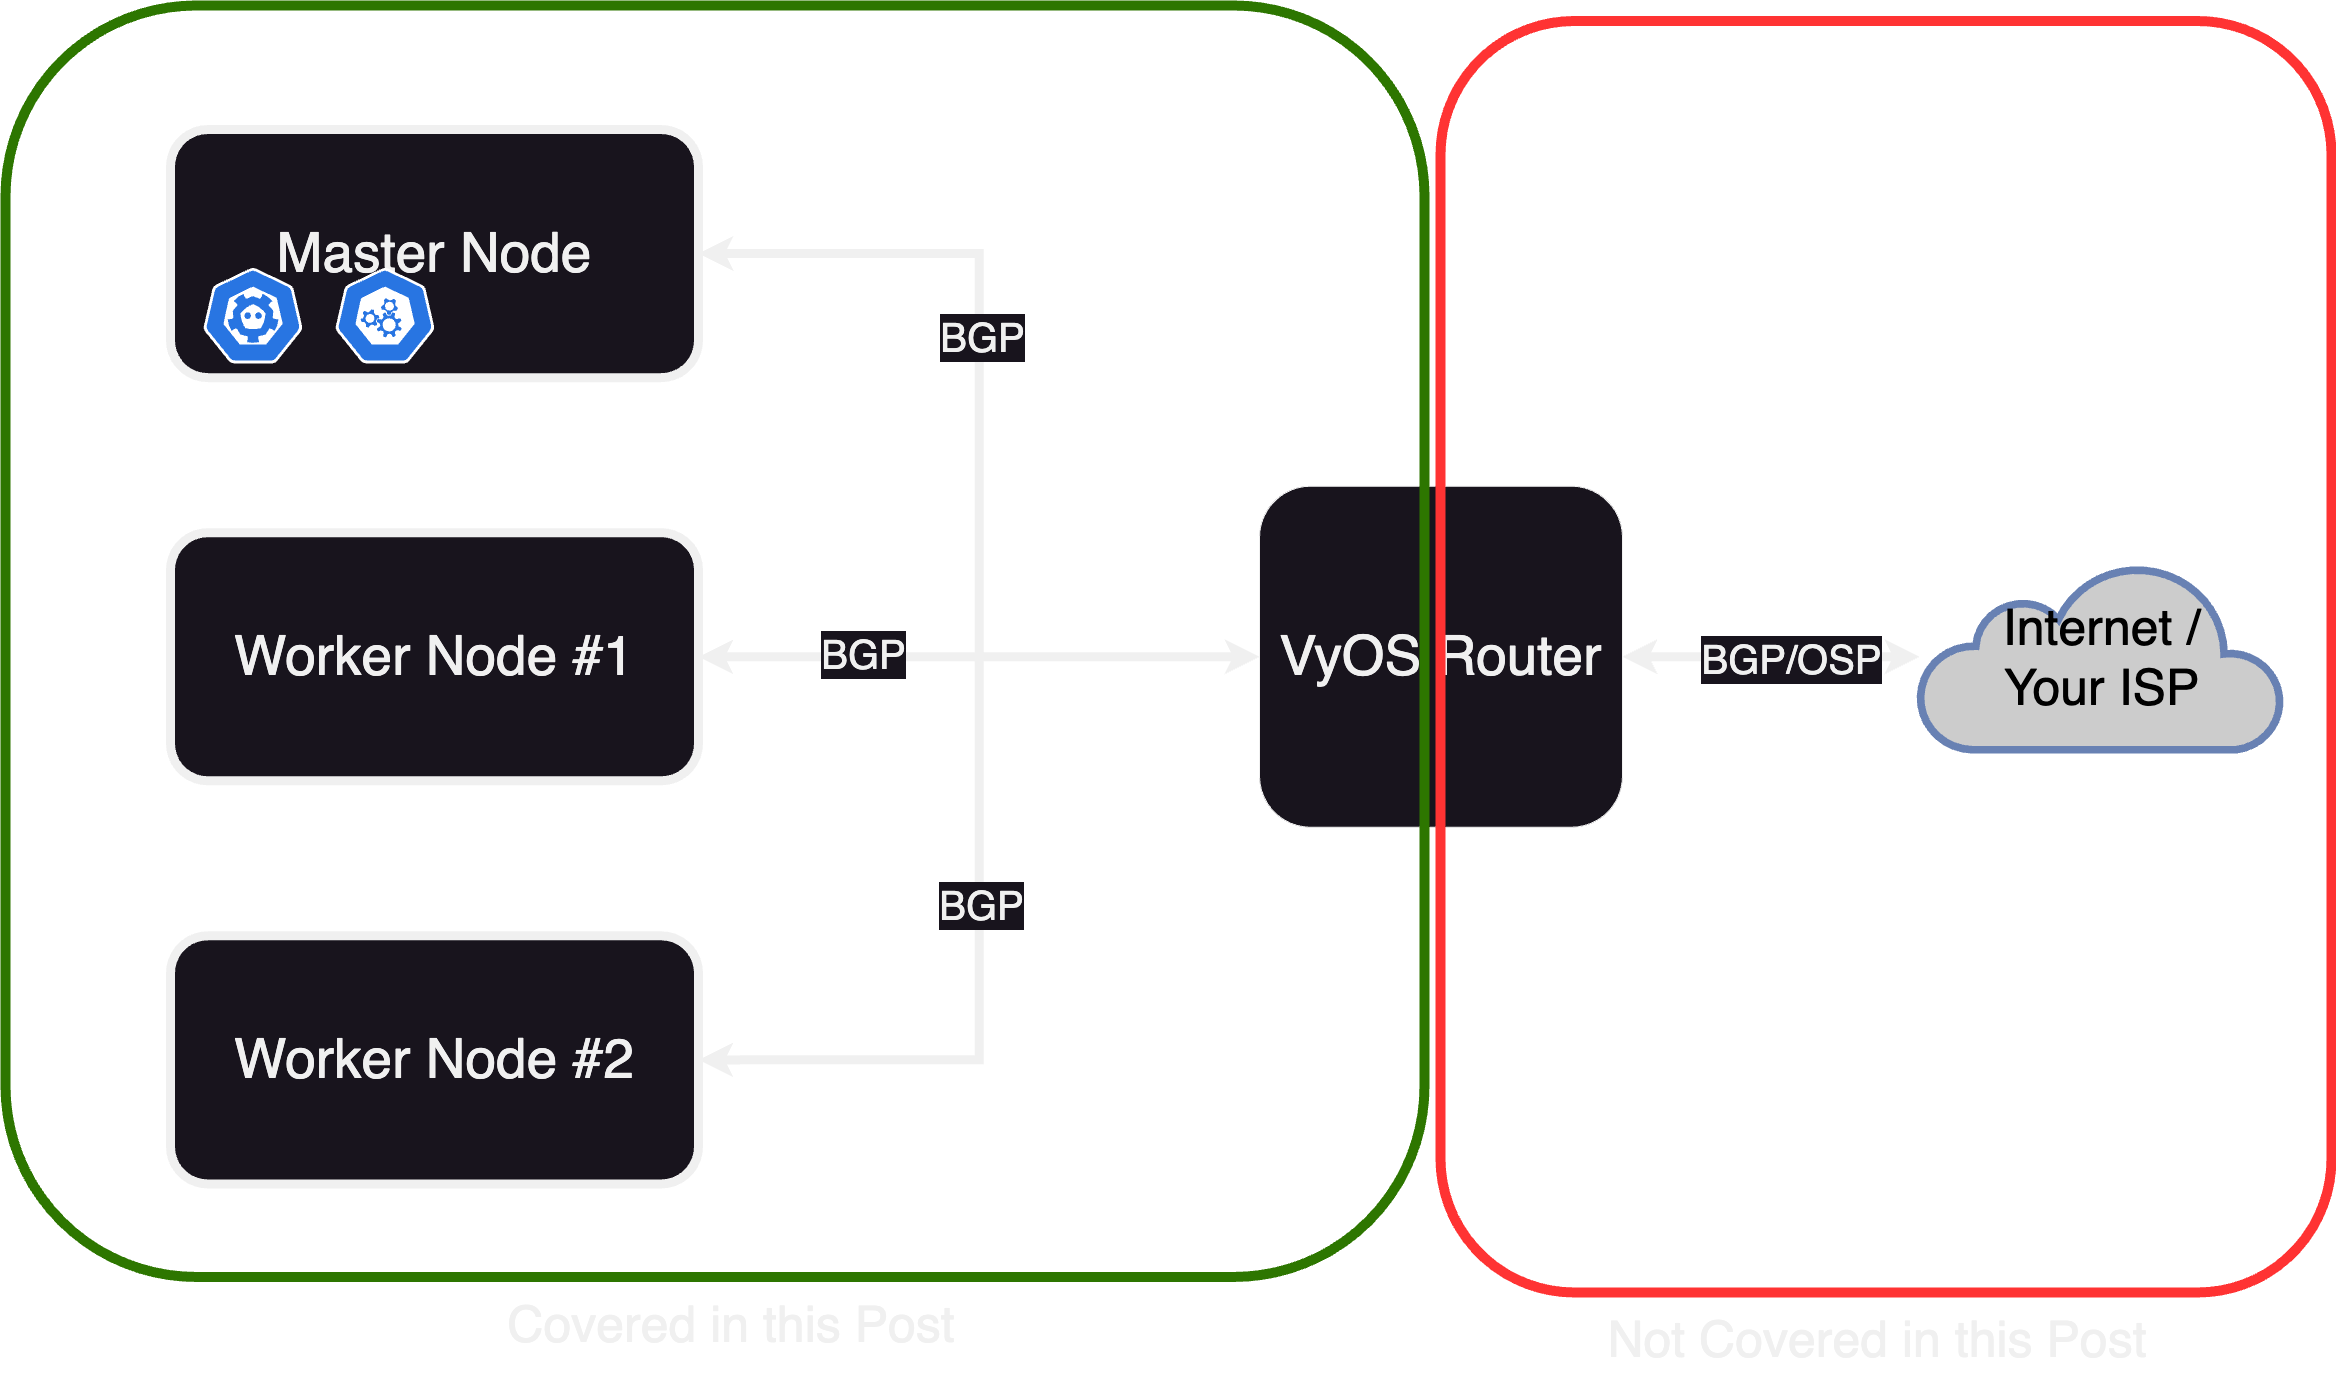
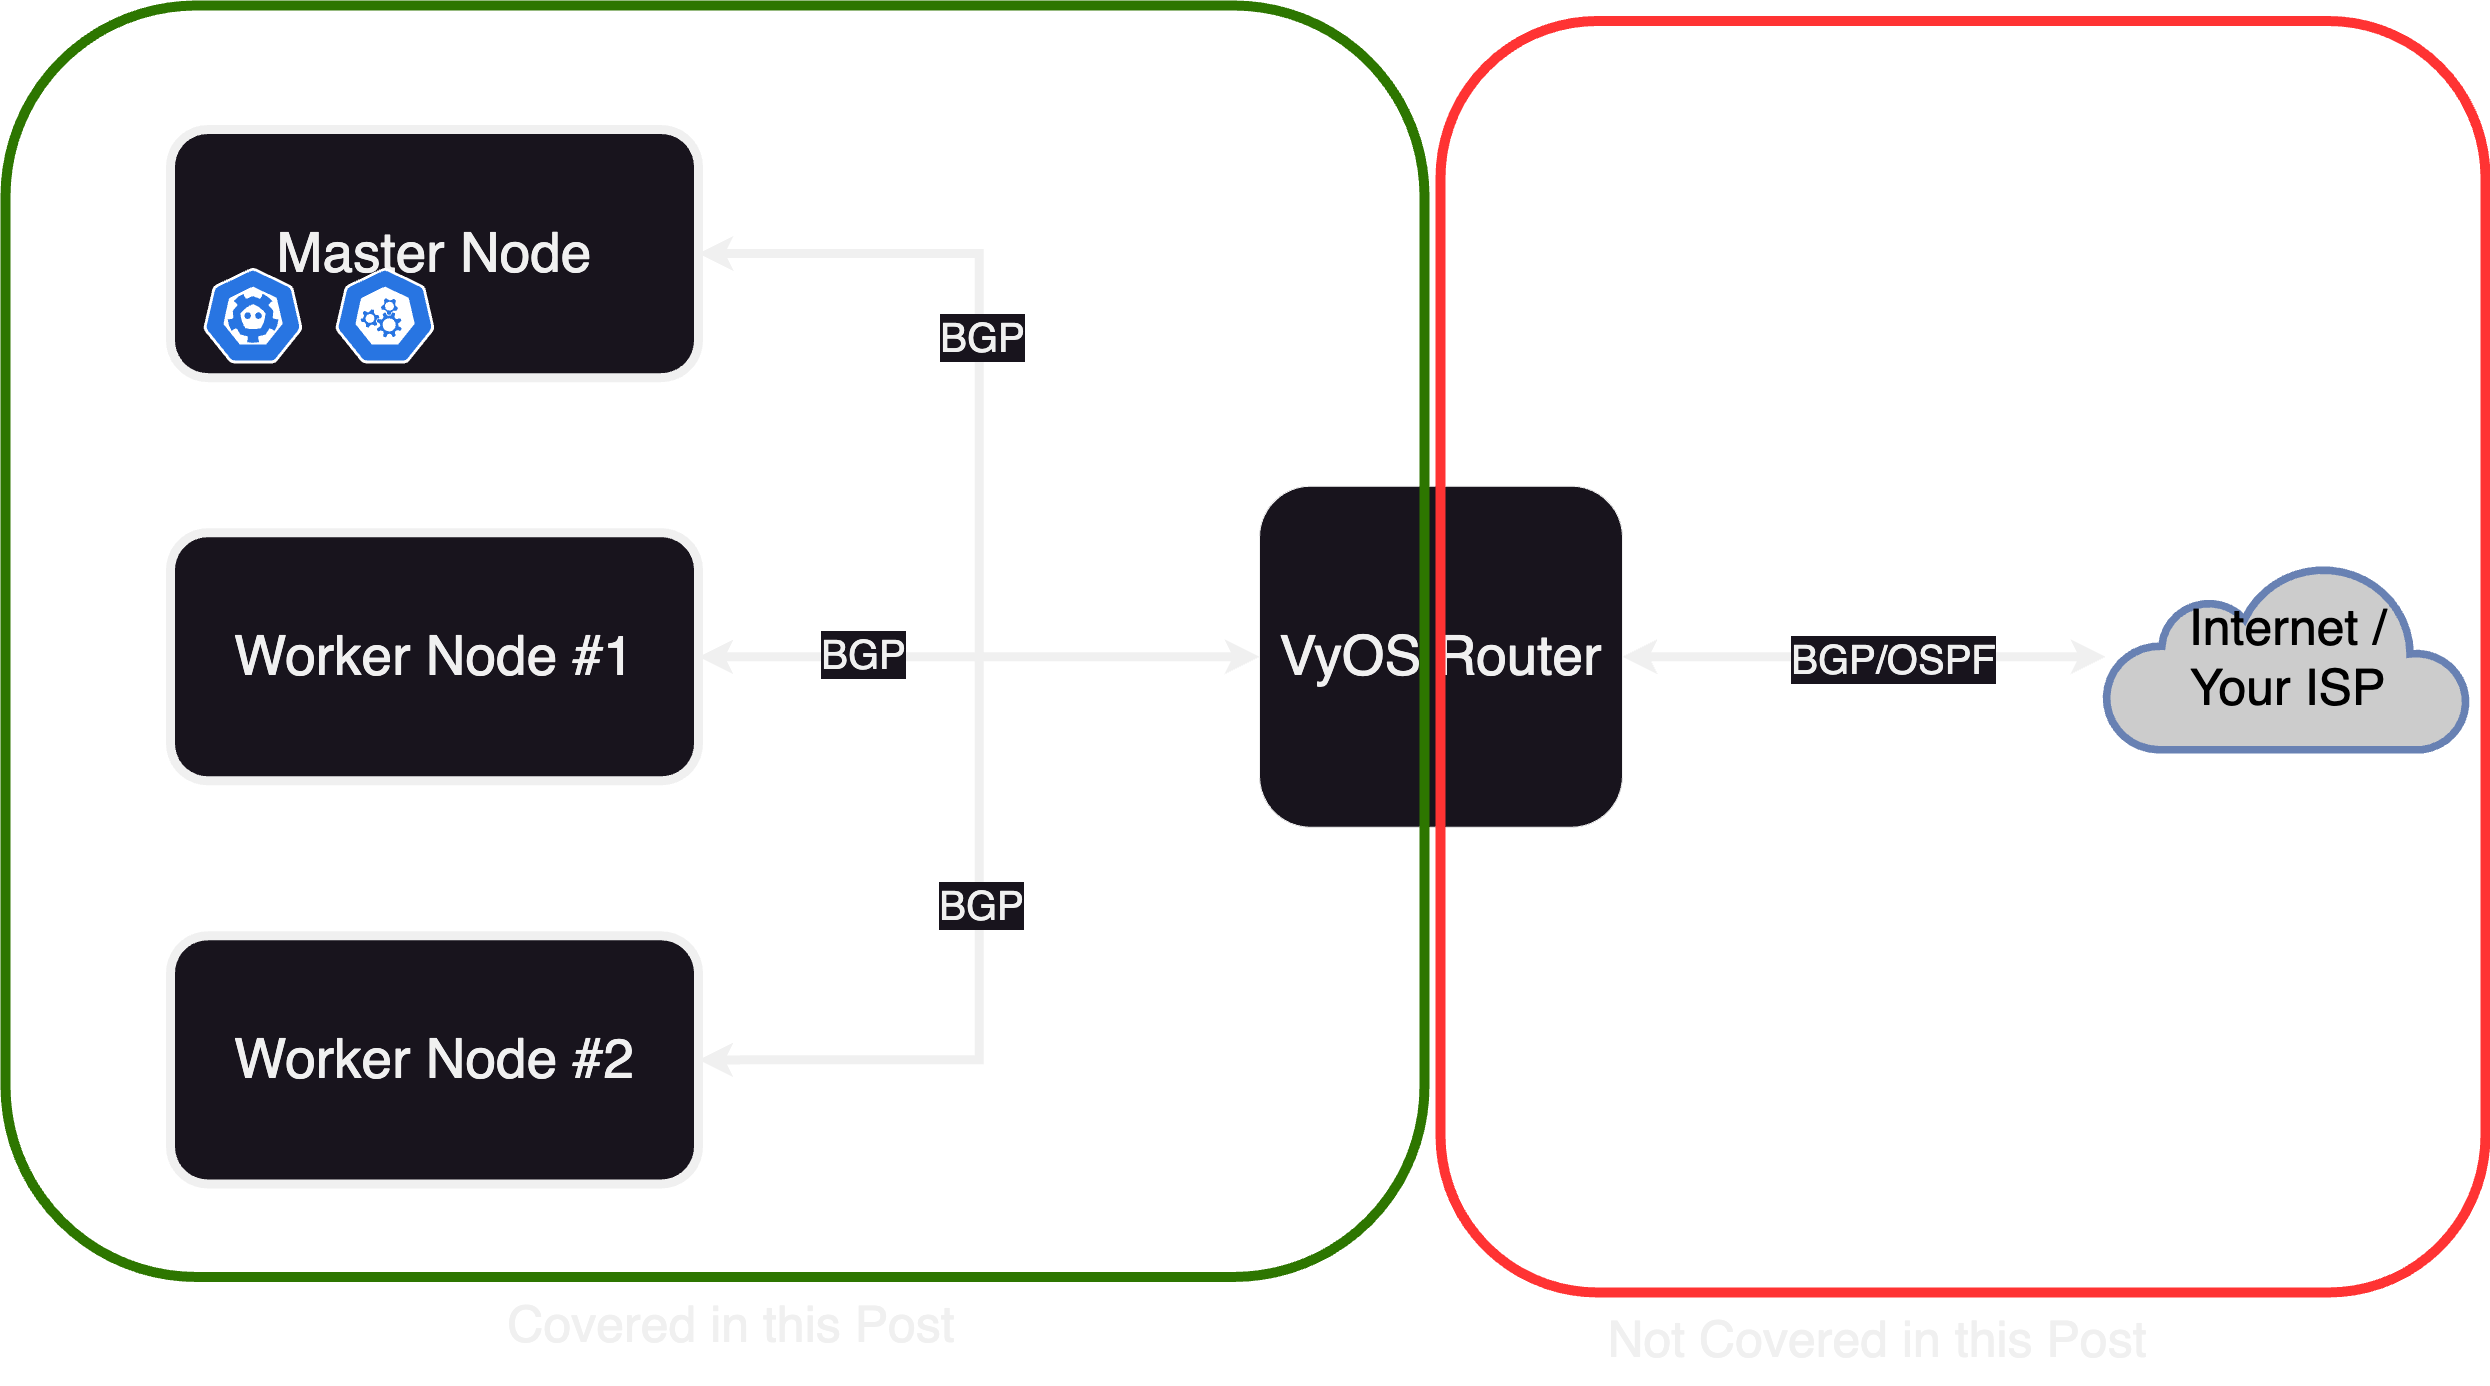
modify post, add correct github action

diff --git a/pelicanconf.py b/pelicanconf.py
@@ -2,7 +2,9 @@ AUTHOR = 'mowoe'
 SITENAME = 'mowoe blog'
 SITEURL = ''
 
-SITETITLE = "mowoe"
+SITETITLE = "mowoe's blog"
+SITENAME = "mowoe's blog"
+SITESUBTITLE = "cloud native and other buzzwords"
 SITELOGO = "/images/12197109.png"
 
 PATH = 'content'

diff --git a/content/bare-metal-k8s-cluster.md b/content/bare-metal-k8s-cluster.md
@@ -3,7 +3,8 @@ Date: 2023-06-28 12:35
 Category: Guides
 
 
-![](images/metallb_k8s_longhorn_heart.png)
+![metallb+kubernetes+longhorn+vyos=<3](images/metallb_k8s_longhorn_heart.png)
+*Some knowledge of how kubernetes works, as well as some networking basics might be helpful in understanding this post.*
 ## Motivation
 Through some changes in my job, i first came into contact with kubernetes ~1 year ago. In this time i learned a lot, however my learning process was always somehow limited by me only having access to clusters from my company, which, of course, werent very tolerant to "some noob just fooling around".
 
@@ -32,18 +33,18 @@ In most cloud environments, the cloud provider will provision such volumes in th
 
 ### Basic ideas and concepts of the Deployment
 
-![](images/infograph.png)
+![overview of what is covered in this post](images/infograph.png)
 
-The cluster will consist of 3 nodes (this number is abritrary, you can either use just one node, or any other number, for better high availibility performance, this number should however be odd). Each of these nodes is a virtual machine on one hypervisor (in my case proxmox, this shouldnt matter though). Additionaly we need a router speaking BGP, to which we can later anounce adresses of our cluster. In theory this router doesnt have to be controlled by you (e.g. talking directly to your ISP), but the bgp advertisements will get as small as /32 for v4 and /128 for v6, which any reasonable ISP would reject. Additionally we will establish a BGP peering between each node and the router, another fact which most ISPs will (rightfuly so) reject. This is why i chose to deploy a VyOS router along with the nodes, to which they can talk via BGP. This router will then "reanounce" the received routes via OSPF to my ISP (which in my case is me).
+The cluster will consist of 3 nodes (this number is abritrary, you can either use just one node, or any other number, for better high availibility performance, this number should however be odd). Each of these nodes is a virtual machine on one hypervisor (in my case proxmox, this shouldnt matter though). Additionaly we need a router speaking BGP, to which we can later announce adresses of our cluster. In theory this router doesnt have to be controlled by you (e.g. talking directly to your ISP), but the bgp advertisements will get as small as /32 for v4 and /128 for v6, which any reasonable ISP would reject. Additionally we will establish a BGP peering between each node and the router, another fact which most ISPs will (rightfuly so) reject. This is why i chose to deploy a VyOS router along with the nodes, to which they can talk via BGP. This router will then "reannounce" the received routes via OSPF to my ISP (which in my case is me).
 
 ##### TL;DR Prerequisites
 * Some Machines (or VMs) acting as nodes, running ubuntu
 * BGP-enabled router _or_ an additional VM to deploy a software router like VyOS
-* An IP prefix you own or you are allowed to anounce (i will only use v6 here)
-* An upstream router to which you can anounce your prefix, which preferably has some sort of transit peering, so your prefix actually gets anounced to the internet
+* An IP prefix you own or you are allowed to announce (i will only use v6 here)
+* An upstream router to which you can announce your prefix, which preferably has some sort of transit peering, so your prefix actually gets announced to the internet
 
 ## Setting up the actual cluster
-Now to the more interesting part of this article: Actually Setting the cluster up.
+Now to the more interesting part of this post: Actually Setting the cluster up.
 
 ### Setting up the nodes
 Setting up the nodes is pretty straight forward *for now*. Just install microk8s via snap. Execute these commands on *all* of your nodes:
@@ -205,21 +206,24 @@ microk8s enable dashboard dns
 Once again, this command only has to be executed on the master node. The worker nodes will inherit all config changes.
 
 ### Installing MetalLB
-As you can see from `microk8s status`, microk8s already includes metallb as an addon. However we wont be able to use this, as the default MetalLB configuration will use its own BGP daemon, which doesnt support IPv6. Hence we need to use the `frr`-mode, which, as the name suggests, uses frr as its bgp daemon. Until this option is included in the official plugin, we have to add it as a custom addon repository:
+As you can see from `microk8s status`, microk8s already includes metallb as an addon. However we wont be able to use this, as the default MetalLB configuration will use its own BGP daemon, which doesnt support IPv6. Hence we need to use the `frr`-mode, which, as the name suggests, uses frr as its bgp daemon. Until the core addons version supports this by itself, we have to modify it. To make things easier, i created a repo which you can just add as a dependency [here](https://github.com/mowoe/microk8s-metallb-frr-addon).
+Add the repo:
 ```bash
+microk8s addons repo add mowoe-metallb-frr https://github.com/mowoe/microk8s-metallb-frr-addon
+microk8s addons repo update mowoe-metallb-frr
 ```
 After that we can just enable it:
 ```bash
-microk8s enable metallb-frr
+microk8s enable mowoe-metallb-frr/metallb-frr
 ```
-You will be prompted for a IP prefix, which will be the default Adresspool for Metallb. Just input any random prefix, we wont be using it. Now Metallb should be successfully installed. Until we can use this though, we first have to set up our router correctly.
+You will be prompted for an IP prefix, which will be the default Addresspool for Metallb. Just input any random prefix, we wont be using it. Now Metallb should be successfully installed. Until we can use this though, we first have to set up our router correctly.
 
 ⚠ There is currently a bug in metallb which sometimes messes up the cert configuration for the webhooks metallb provides so that kubernetes can validate the custom resources. The issue is documented [here](https://github.com/metallb/metallb/issues/1597). If this applies to you, i would recommend setting `failurePolicy=Ignore` like it is suggested there in your metallb deployment. This requires modifying the microk8s addon.
 
 ## Setting up our VyOS router
 (Skip this part if you already have a BGP enabled router in your network and know how to configure it)
 
-As every configuration is different, i will only go into detail on how to setup the peerings to the kubernetes nodes. At the end of this post, all prefixes anounced from kubernetes will be in the routing table of this VyOS router, but you still have to redistribute them to your ISP.
+As every configuration is different, i will only go into detail on how to setup the peerings to the kubernetes nodes. At the end of this post, all prefixes announced from kubernetes will be in the routing table of this VyOS router, but you still have to redistribute them to your ISP.
 
 At this point, you should have a vyos router up and running which is in the same network as your nodes.
 
@@ -241,7 +245,7 @@ To configure MetalLB, we essentially need three things:
 
 1. An Adresspool
 2. A BGPPeer
-3. An Anouncement
+3. An announcement
 
 #### The Adress Space
 First we need to configure an adresspool from which MetalLB will hand out adresses. We do this by defining a resource for the CRD `IPAddressPool`:
@@ -283,7 +287,7 @@ Once again, adjust the ASN and the address of your router and apply it with
 kubectl apply -f peer.yaml
 ```
 #### The advertisement
-Metallb wont anounce any prefixes until you have defined a `BGPAdvertisement` resource. We dont need to actually configure anything in it, so you can leave it as is.
+Metallb wont announce any prefixes until you have defined a `BGPAdvertisement` resource. We dont need to actually configure anything in it, so you can leave it as is.
 
 `advertisement.yaml`
 ```yaml
@@ -368,16 +372,15 @@ nginx   LoadBalancer   fd98::1163   2a0e:8f02:f000:2::   80:30544/TCP   25s
 ```
 If your BGP configuration is setup probably, the address under `EXTERNAL-IP `should be publicly reachable. Lets check:
 
-![](images/screenshot.png)
-
+![nginx screenshot](images/6CA4F3E7-2B94-4070-931E-5233861B7B56_1_105_c.jpeg)
 Yay \o/ seems like its working.
 
 ## Continuing from here
-We now have a working kubernetes cluster in which we can deploy our workloads. One part is however still missing: Storage. For this i would recommend to install longhorn, which provides everythin necessary for your kubernetes cluster storage-wise.
+We now have a working kubernetes cluster in which we can deploy our workloads. One part is however still missing: Storage. For this i would recommend to install longhorn, which provides everythin necessary for your kubernetes cluster storage-wise. I will probably make another post covering this.
 ### Troubleshooting
 If your service isnt reachable, try to narrow down the source:
-#### Is the address getting anounced to your router?
-First, check if the anuoncement is actually made from the metallb-`speaker` components. In the case of VyOS, you can check the received anouncements with
+#### Is the address getting announced to your router?
+First, check if the anuoncement is actually made from the metallb-`speaker` components. In the case of VyOS, you can check the received announcements with
 ```
 show bgp summary
 ```
